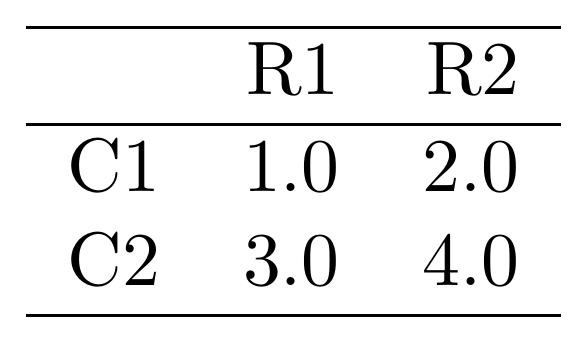
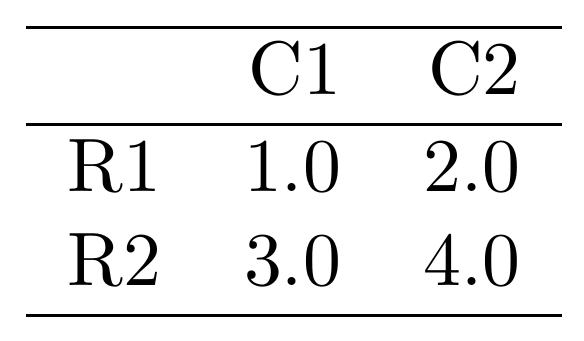
Fixes the column names and row names in the examples

diff --git a/examples/hello-pytabulator.py b/examples/hello-pytabulator.py
@@ -7,4 +7,4 @@ data = np.array([
 row_names = ['R1', 'R2']
 column_names = ['C1', 'C2']
 
-Table(data, row_names, column_names).generate('danda.tex')
+Table(data, column_names, row_names).generate('danda.tex')
